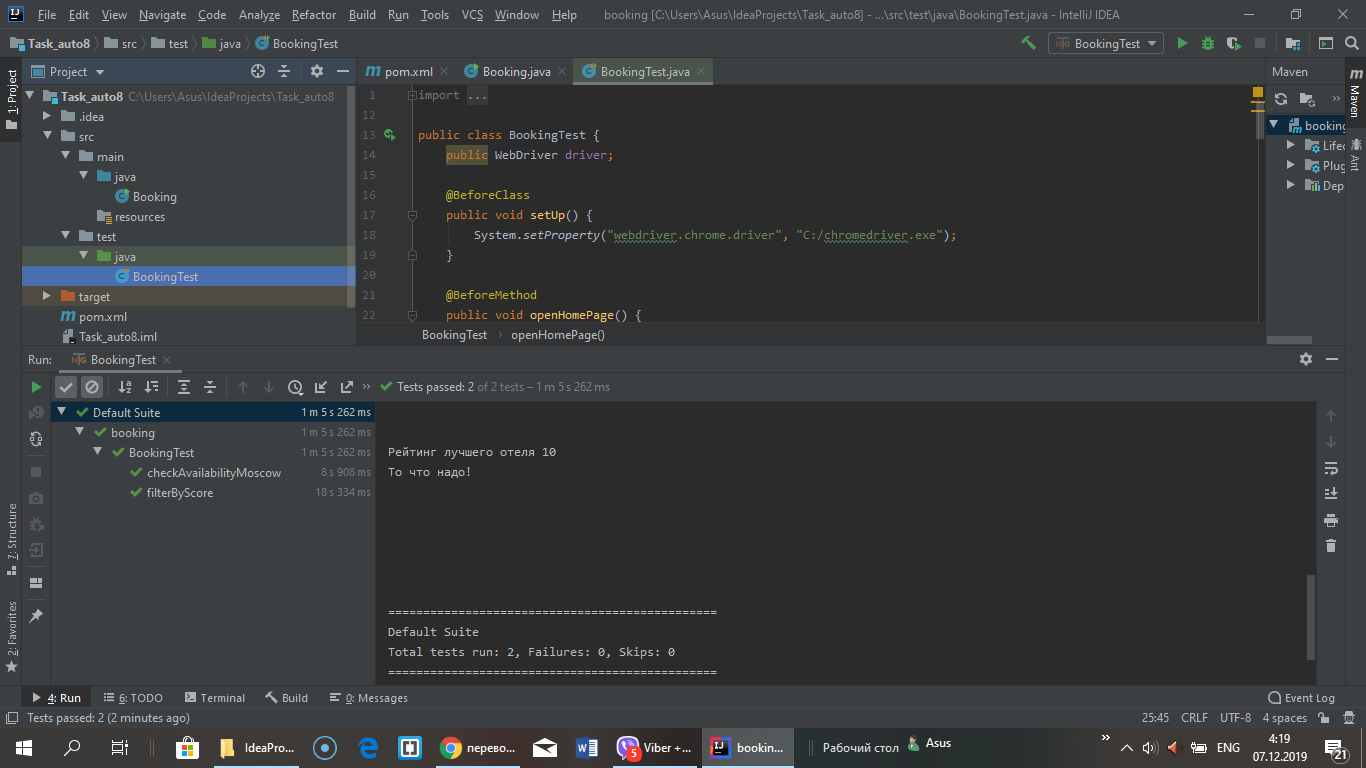
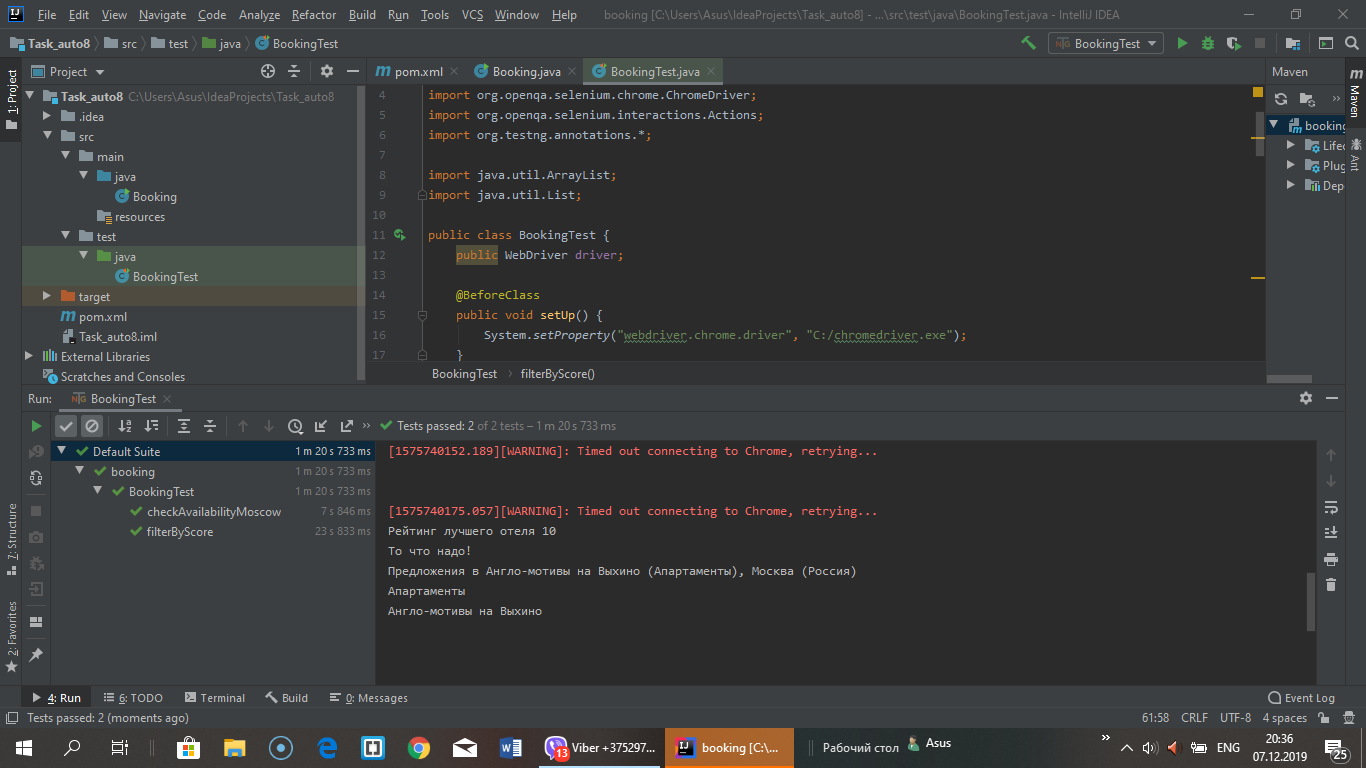
fix bugs lesson8

diff --git a/lesson8/BookingTest.java b/lesson8/BookingTest.java
@@ -1,4 +1,3 @@
-import com.google.common.collect.Iterables;
 import org.openqa.selenium.By;
 import org.openqa.selenium.WebDriver;
 import org.openqa.selenium.WebElement;
@@ -6,9 +5,8 @@ import org.openqa.selenium.chrome.ChromeDriver;
 import org.openqa.selenium.interactions.Actions;
 import org.testng.annotations.*;
 
+import java.util.ArrayList;
 import java.util.List;
-
-import static org.testng.Assert.*;
 
 public class BookingTest {
     public WebDriver driver;
@@ -27,22 +25,20 @@ public class BookingTest {
 
     @Test
     public void checkAvailabilityMoscow() {
-        driver.findElement(By.xpath(".//input[@type='search']"))
-                .sendKeys("Москва");
+        driver.findElement(By.xpath(".//input[@type='search']")).sendKeys("Москва");
         driver.findElement(By.xpath(".//div[@data-mode='checkin']")).click();
         driver.findElement(By.xpath(".//td[@data-date='2019-12-14']")).click();
         driver.findElement(By.xpath(".//div[@data-mode='checkout']")).click();
         driver.findElement(By.xpath(".//div[@data-mode='checkout']")).click();
         driver.findElement(By.xpath(".//td[@data-date='2019-12-27']")).click();
         driver.findElement(By.xpath(".//button[@data-sb-id='main']")).click();
-        System.out.println(driver.findElement(By.xpath("//h1")).getText());
-        System.out.println(driver.findElement(By.xpath("//h2")).getText());
+        System.out.println(driver.findElement(By.xpath(".//h1")).getText());
+        System.out.println(driver.findElement(By.xpath(".//h2")).getText());
     }
 
     @Test
     public void filterByScore() throws InterruptedException {
-        driver.findElement(By.xpath(".//input[@type='search']"))
-                .sendKeys("Москва");
+        driver.findElement(By.xpath(".//input[@type='search']")).sendKeys("Москва");
         driver.findElement(By.xpath(".//div[@data-mode='checkin']")).click();
         driver.findElement(By.xpath(".//td[@data-date='2019-12-14']")).click();
         driver.findElement(By.xpath(".//div[@data-mode='checkout']")).click();
@@ -51,13 +47,18 @@ public class BookingTest {
         driver.findElement(By.xpath(".//button[@data-sb-id='main']")).click();
         driver.findElement(By.xpath(".//a[@data-category='review_score_and_price']")).click();
         Thread.sleep(10000);
-        WebElement element = driver.findElement(By.xpath(".//a[contains(@class,'sr_cta_button')]"));
+        List<WebElement> webElements = driver.findElements(By.xpath(".//a[contains(@class,'sr_cta_button')]"));
+        WebElement element = webElements.get(0);
         Actions actions = new Actions(driver);
         actions.moveToElement(element).click().perform();
+        ArrayList<String> win2 = new ArrayList<String>(driver.getWindowHandles());
+        driver.switchTo().window(win2.get(1));
         String score = driver.findElement(By.xpath(".//a//div[@class='bui-review-score__badge']")).getText();
         int scoreInt = Integer.parseInt(score);
         System.out.println("Рейтинг лучшего отеля " + score);
         System.out.println(scoreInt >= 9 ? "То что надо!" : "Лучше на вокзале");
+        System.out.println(driver.findElement(By.xpath(".//h1")).getText());
+        System.out.println(driver.findElement(By.xpath(".//h2")).getText());
     }
 
     @AfterMethod
